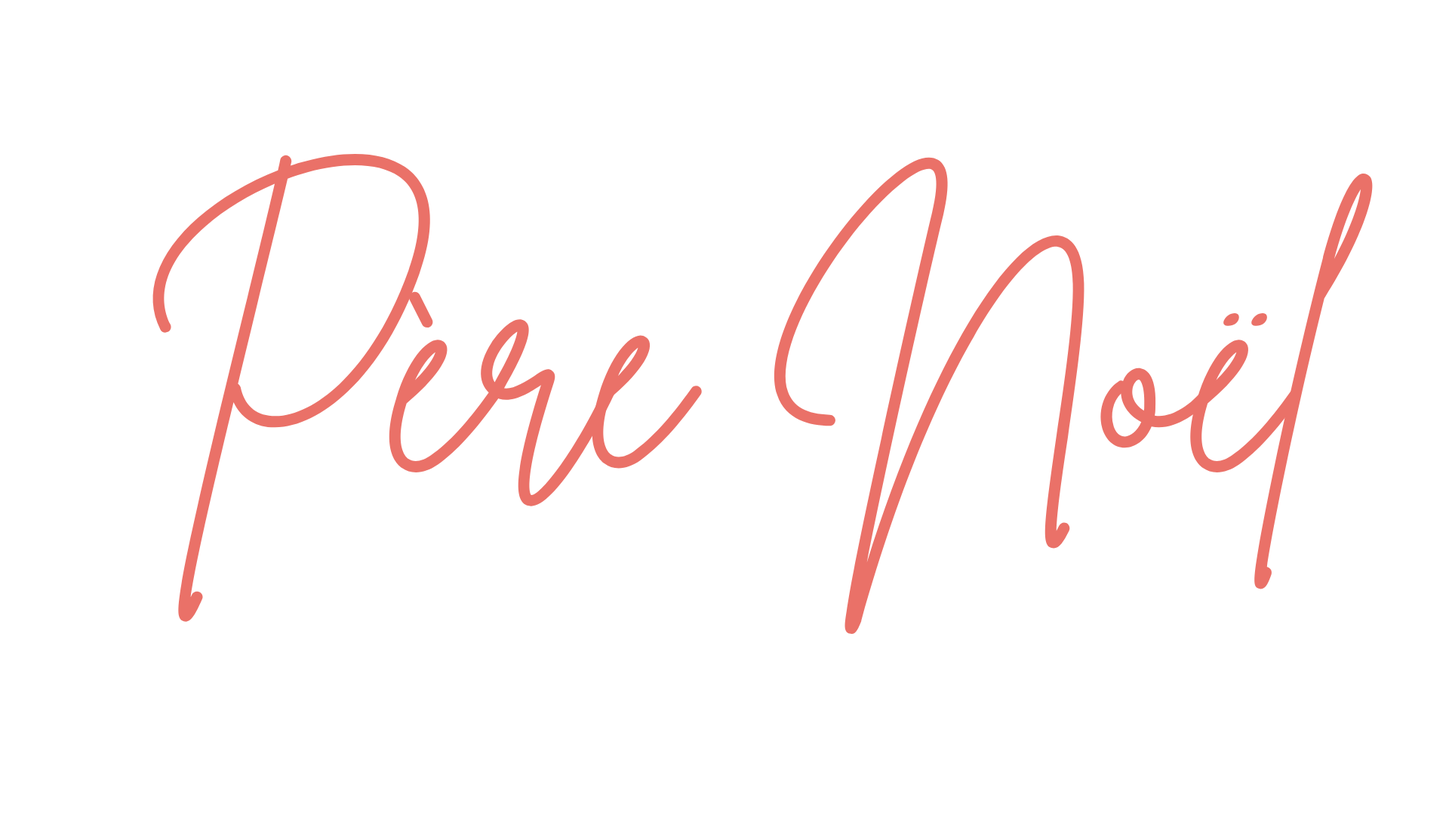
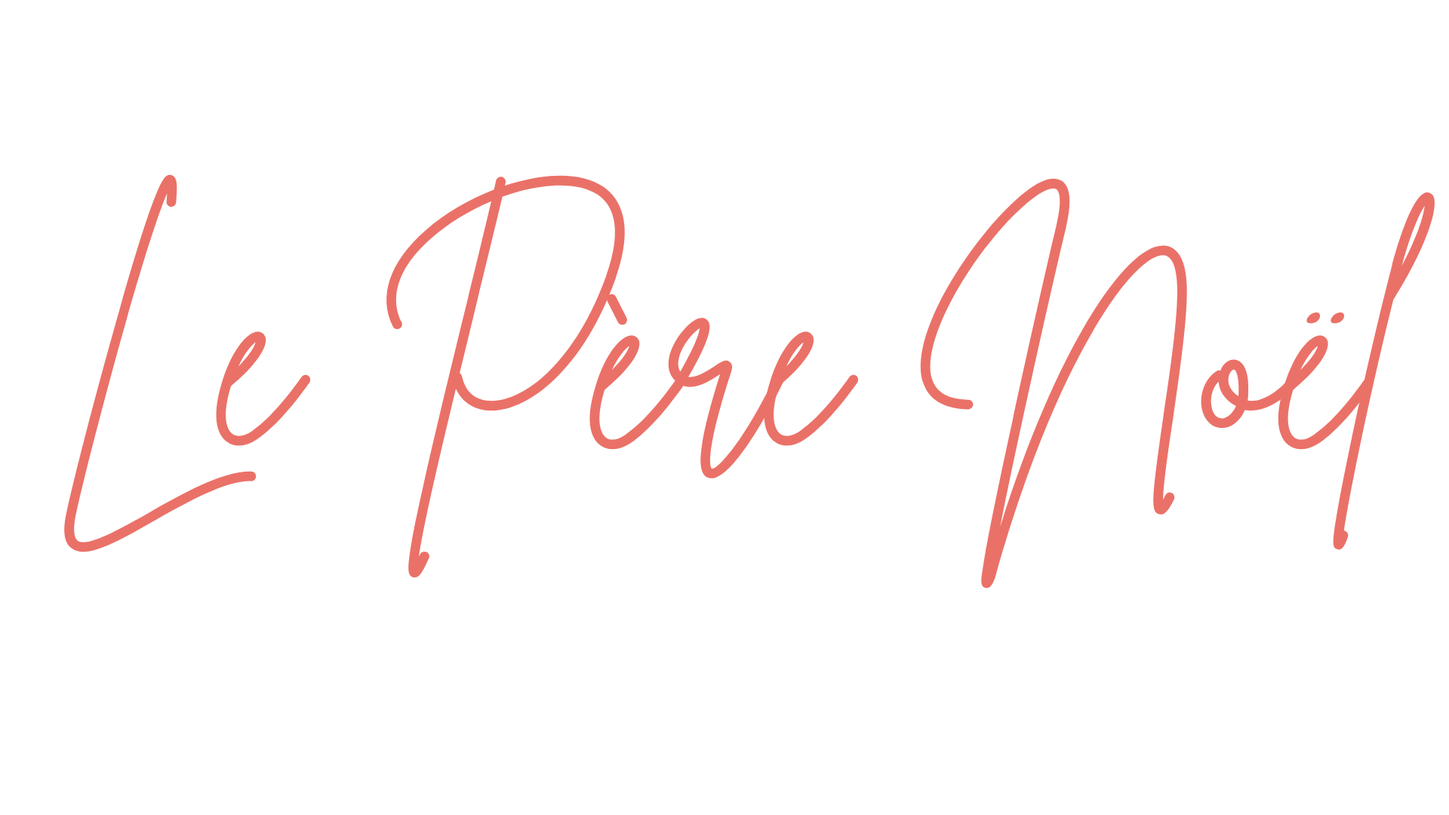
Bump to v0.6

Changed region(s): [[0.0312, 0.1833, 1.0, 0.7944], [0.8438, 0.6417, 0.875, 0.7333]]

diff --git a/dist/output.css b/dist/output.css
@@ -1,1 +1,1 @@
-/*! tailwindcss v3.1.8 | MIT License | https://tailwindcss.com*/*,:after,:before{box-sizing:border-box;border:0 solid #e5e7eb}:after,:before{--tw-content:""}html{line-height:1.5;-webkit-text-size-adjust:100%;-moz-tab-size:4;-o-tab-size:4;tab-size:4;font-family:ui-sans-serif,system-ui,-apple-system,BlinkMacSystemFont,Segoe UI,Roboto,Helvetica Neue,Arial,Noto Sans,sans-serif,Apple Color Emoji,Segoe UI Emoji,Segoe UI Symbol,Noto Color Emoji}body{margin:0;line-height:inherit}hr{height:0;color:inherit;border-top-width:1px}abbr:where([title]){-webkit-text-decoration:underline dotted;text-decoration:underline dotted}h1,h2,h3,h4,h5,h6{font-size:inherit;font-weight:inherit}a{color:inherit;text-decoration:inherit}b,strong{font-weight:bolder}code,kbd,pre,samp{font-family:ui-monospace,SFMono-Regular,Menlo,Monaco,Consolas,Liberation Mono,Courier New,monospace;font-size:1em}small{font-size:80%}sub,sup{font-size:75%;line-height:0;position:relative;vertical-align:initial}sub{bottom:-.25em}sup{top:-.5em}table{text-indent:0;border-color:inherit;border-collapse:collapse}button,input,optgroup,select,textarea{font-family:inherit;font-size:100%;font-weight:inherit;line-height:inherit;color:inherit;margin:0;padding:0}button,select{text-transform:none}[type=button],[type=reset],[type=submit],button{-webkit-appearance:button;background-color:initial;background-image:none}:-moz-focusring{outline:auto}:-moz-ui-invalid{box-shadow:none}progress{vertical-align:initial}::-webkit-inner-spin-button,::-webkit-outer-spin-button{height:auto}[type=search]{-webkit-appearance:textfield;outline-offset:-2px}::-webkit-search-decoration{-webkit-appearance:none}::-webkit-file-upload-button{-webkit-appearance:button;font:inherit}summary{display:list-item}blockquote,dd,dl,figure,h1,h2,h3,h4,h5,h6,hr,p,pre{margin:0}fieldset{margin:0}fieldset,legend{padding:0}menu,ol,ul{list-style:none;margin:0;padding:0}textarea{resize:vertical}input::-moz-placeholder,textarea::-moz-placeholder{opacity:1;color:#9ca3af}input::placeholder,textarea::placeholder{opacity:1;color:#9ca3af}[role=button],button{cursor:pointer}:disabled{cursor:default}audio,canvas,embed,iframe,img,object,svg,video{display:block;vertical-align:middle}img,video{max-width:100%;height:auto}*,:after,:before{--tw-border-spacing-x:0;--tw-border-spacing-y:0;--tw-translate-x:0;--tw-translate-y:0;--tw-rotate:0;--tw-skew-x:0;--tw-skew-y:0;--tw-scale-x:1;--tw-scale-y:1;--tw-pan-x: ;--tw-pan-y: ;--tw-pinch-zoom: ;--tw-scroll-snap-strictness:proximity;--tw-ordinal: ;--tw-slashed-zero: ;--tw-numeric-figure: ;--tw-numeric-spacing: ;--tw-numeric-fraction: ;--tw-ring-inset: ;--tw-ring-offset-width:0px;--tw-ring-offset-color:#fff;--tw-ring-color:rgba(59,130,246,.5);--tw-ring-offset-shadow:0 0 #0000;--tw-ring-shadow:0 0 #0000;--tw-shadow:0 0 #0000;--tw-shadow-colored:0 0 #0000;--tw-blur: ;--tw-brightness: ;--tw-contrast: ;--tw-grayscale: ;--tw-hue-rotate: ;--tw-invert: ;--tw-saturate: ;--tw-sepia: ;--tw-drop-shadow: ;--tw-backdrop-blur: ;--tw-backdrop-brightness: ;--tw-backdrop-contrast: ;--tw-backdrop-grayscale: ;--tw-backdrop-hue-rotate: ;--tw-backdrop-invert: ;--tw-backdrop-opacity: ;--tw-backdrop-saturate: ;--tw-backdrop-sepia: }::-webkit-backdrop{--tw-border-spacing-x:0;--tw-border-spacing-y:0;--tw-translate-x:0;--tw-translate-y:0;--tw-rotate:0;--tw-skew-x:0;--tw-skew-y:0;--tw-scale-x:1;--tw-scale-y:1;--tw-pan-x: ;--tw-pan-y: ;--tw-pinch-zoom: ;--tw-scroll-snap-strictness:proximity;--tw-ordinal: ;--tw-slashed-zero: ;--tw-numeric-figure: ;--tw-numeric-spacing: ;--tw-numeric-fraction: ;--tw-ring-inset: ;--tw-ring-offset-width:0px;--tw-ring-offset-color:#fff;--tw-ring-color:rgba(59,130,246,.5);--tw-ring-offset-shadow:0 0 #0000;--tw-ring-shadow:0 0 #0000;--tw-shadow:0 0 #0000;--tw-shadow-colored:0 0 #0000;--tw-blur: ;--tw-brightness: ;--tw-contrast: ;--tw-grayscale: ;--tw-hue-rotate: ;--tw-invert: ;--tw-saturate: ;--tw-sepia: ;--tw-drop-shadow: ;--tw-backdrop-blur: ;--tw-backdrop-brightness: ;--tw-backdrop-contrast: ;--tw-backdrop-grayscale: ;--tw-backdrop-hue-rotate: ;--tw-backdrop-invert: ;--tw-backdrop-opacity: ;--tw-backdrop-saturate: ;--tw-backdrop-sepia: }::backdrop{--tw-border-spacing-x:0;--tw-border-spacing-y:0;--tw-translate-x:0;--tw-translate-y:0;--tw-rotate:0;--tw-skew-x:0;--tw-skew-y:0;--tw-scale-x:1;--tw-scale-y:1;--tw-pan-x: ;--tw-pan-y: ;--tw-pinch-zoom: ;--tw-scroll-snap-strictness:proximity;--tw-ordinal: ;--tw-slashed-zero: ;--tw-numeric-figure: ;--tw-numeric-spacing: ;--tw-numeric-fraction: ;--tw-ring-inset: ;--tw-ring-offset-width:0px;--tw-ring-offset-color:#fff;--tw-ring-color:rgba(59,130,246,.5);--tw-ring-offset-shadow:0 0 #0000;--tw-ring-shadow:0 0 #0000;--tw-shadow:0 0 #0000;--tw-shadow-colored:0 0 #0000;--tw-blur: ;--tw-brightness: ;--tw-contrast: ;--tw-grayscale: ;--tw-hue-rotate: ;--tw-invert: ;--tw-saturate: ;--tw-sepia: ;--tw-drop-shadow: ;--tw-backdrop-blur: ;--tw-backdrop-brightness: ;--tw-backdrop-contrast: ;--tw-backdrop-grayscale: ;--tw-backdrop-hue-rotate: ;--tw-backdrop-invert: ;--tw-backdrop-opacity: ;--tw-backdrop-saturate: ;--tw-backdrop-sepia: }.container{width:100%}@media (min-width:640px){.container{max-width:640px}}@media (min-width:768px){.container{max-width:768px}}@media (min-width:1024px){.container{max-width:1024px}}@media (min-width:1280px){.container{max-width:1280px}}@media (min-width:1536px){.container{max-width:1536px}}.fixed{position:fixed}.top-0{top:0}.left-0{left:0}.z-10{z-index:10}.mx-auto{margin-left:auto;margin-right:auto}.my-10{margin-top:2.5rem;margin-bottom:2.5rem}.my-2{margin-top:.5rem;margin-bottom:.5rem}.my-6{margin-top:1.5rem;margin-bottom:1.5rem}.my-4{margin-top:1rem}.mb-4,.my-4{margin-bottom:1rem}.mb-10{margin-bottom:2.5rem}.mb-8{margin-bottom:2rem}.mb-2{margin-bottom:.5rem}.mt-10{margin-top:2.5rem}.mt-0{margin-top:0}.mr-2{margin-right:.5rem}.mb-14{margin-bottom:3.5rem}.ml-12{margin-left:3rem}.mr-8{margin-right:2rem}.mb-6{margin-bottom:1.5rem}.block{display:block}.inline-block{display:inline-block}.flex{display:flex}.grid{display:grid}.hidden{display:none}.h-12{height:3rem}.h-full{height:100%}.h-screen{height:100vh}.h-40{height:10rem}.max-h-\[8rem\]{max-height:8rem}.w-full{width:100%}.w-screen{width:100vw}.w-2\/3{width:66.666667%}.w-1\/3{width:33.333333%}.w-20{width:5rem}.max-w-\[840px\]{max-width:840px}.max-w-\[8rem\]{max-width:8rem}.flex-grow{flex-grow:1}.-translate-x-full{--tw-translate-x:-100%}.-rotate-2,.-translate-x-full{transform:translate(var(--tw-translate-x),var(--tw-translate-y)) rotate(var(--tw-rotate)) skewX(var(--tw-skew-x)) skewY(var(--tw-skew-y)) scaleX(var(--tw-scale-x)) scaleY(var(--tw-scale-y))}.-rotate-2{--tw-rotate:-2deg}.rotate-1{--tw-rotate:1deg}.rotate-1,.rotate-2{transform:translate(var(--tw-translate-x),var(--tw-translate-y)) rotate(var(--tw-rotate)) skewX(var(--tw-skew-x)) skewY(var(--tw-skew-y)) scaleX(var(--tw-scale-x)) scaleY(var(--tw-scale-y))}.rotate-2{--tw-rotate:2deg}.transform{transform:translate(var(--tw-translate-x),var(--tw-translate-y)) rotate(var(--tw-rotate)) skewX(var(--tw-skew-x)) skewY(var(--tw-skew-y)) scaleX(var(--tw-scale-x)) scaleY(var(--tw-scale-y))}.list-inside{list-style-position:inside}.list-disc{list-style-type:disc}.grid-cols-2{grid-template-columns:repeat(2,minmax(0,1fr))}.items-center{align-items:center}.justify-start{justify-content:flex-start}.justify-end{justify-content:flex-end}.justify-center{justify-content:center}.gap-2{gap:.5rem}.gap-8{gap:2rem}.rounded{border-radius:.25rem}.bg-white{--tw-bg-opacity:1;background-color:rgb(255 255 255/var(--tw-bg-opacity))}.bg-\[\#111942\]{--tw-bg-opacity:1;background-color:rgb(17 25 66/var(--tw-bg-opacity))}.bg-white\/60{background-color:hsla(0,0%,100%,.6)}.bg-\[\#E95F32\]{--tw-bg-opacity:1;background-color:rgb(233 95 50/var(--tw-bg-opacity))}.bg-\[\#9ad2d0\]{--tw-bg-opacity:1;background-color:rgb(154 210 208/var(--tw-bg-opacity))}.bg-yellow-300{--tw-bg-opacity:1;background-color:rgb(253 224 71/var(--tw-bg-opacity))}.bg-white\/5{background-color:hsla(0,0%,100%,.05)}.bg-white\/30{background-color:hsla(0,0%,100%,.3)}.bg-white\/20{background-color:hsla(0,0%,100%,.2)}.object-contain{-o-object-fit:contain;object-fit:contain}.p-2{padding:.5rem}.p-5{padding:1.25rem}.p-4{padding:1rem}.py-2{padding-top:.5rem;padding-bottom:.5rem}.px-4{padding-left:1rem;padding-right:1rem}.py-12{padding-top:3rem;padding-bottom:3rem}.px-1{padding-left:.25rem;padding-right:.25rem}.px-3{padding-left:.75rem;padding-right:.75rem}.px-5{padding-left:1.25rem;padding-right:1.25rem}.px-8{padding-left:2rem;padding-right:2rem}.py-4{padding-top:1rem;padding-bottom:1rem}.pt-12{padding-top:3rem}.pb-12{padding-bottom:3rem}.pl-4{padding-left:1rem}.text-center{text-align:center}.text-2xl{font-size:1.5rem;line-height:2rem}.text-sm{font-size:.875rem;line-height:1.25rem}.text-3xl{font-size:1.875rem;line-height:2.25rem}.text-xs{font-size:.75rem;line-height:1rem}.text-base{font-size:1rem;line-height:1.5rem}.font-bold{font-weight:700}.text-white\/90{color:hsla(0,0%,100%,.9)}.text-white{--tw-text-opacity:1;color:rgb(255 255 255/var(--tw-text-opacity))}.text-black{--tw-text-opacity:1;color:rgb(0 0 0/var(--tw-text-opacity))}.text-white\/80{color:hsla(0,0%,100%,.8)}.underline{-webkit-text-decoration-line:underline;text-decoration-line:underline}.no-underline{-webkit-text-decoration-line:none;text-decoration-line:none}.opacity-50{opacity:.5}.opacity-80{opacity:.8}.shadow{--tw-shadow:0 1px 3px 0 rgba(0,0,0,.1),0 1px 2px -1px rgba(0,0,0,.1);--tw-shadow-colored:0 1px 3px 0 var(--tw-shadow-color),0 1px 2px -1px var(--tw-shadow-color);box-shadow:var(--tw-ring-offset-shadow,0 0 #0000),var(--tw-ring-shadow,0 0 #0000),var(--tw-shadow)}.transition{transition-property:color,background-color,border-color,fill,stroke,opacity,box-shadow,transform,filter,-webkit-text-decoration-color,-webkit-backdrop-filter;transition-property:color,background-color,border-color,text-decoration-color,fill,stroke,opacity,box-shadow,transform,filter,backdrop-filter;transition-property:color,background-color,border-color,text-decoration-color,fill,stroke,opacity,box-shadow,transform,filter,backdrop-filter,-webkit-text-decoration-color,-webkit-backdrop-filter;transition-timing-function:cubic-bezier(.4,0,.2,1);transition-duration:.15s}.duration-200{transition-duration:.2s}html{font-family:Raleway,sans-serif;font-size:18px;scroll-behavior:smooth}body{--tw-text-opacity:1;color:rgb(17 25 66/var(--tw-text-opacity));background:url(../images/pattern.png);background-repeat:repeat}h2{font-size:1.25rem;line-height:1.75rem;font-weight:700}p{margin-bottom:.5rem}.highlight,.highlight-container{position:relative}.highlight-container{display:inline-block}.highlight-container:before{position:absolute;top:-1px;left:-1px;margin-left:-.25rem;margin-right:-.25rem;display:block;width:100%;--tw-rotate:2deg;transform:translate(var(--tw-translate-x),var(--tw-translate-y)) rotate(var(--tw-rotate)) skewX(var(--tw-skew-x)) skewY(var(--tw-skew-y)) scaleX(var(--tw-scale-x)) scaleY(var(--tw-scale-y));--tw-bg-opacity:1;background-color:rgb(255 255 255/var(--tw-bg-opacity));content:" ";height:90%;border-radius:20% 25% 20% 24%;padding:10px 3px 3px 10px}.hover\:bg-\[\#e54b18\]:hover{--tw-bg-opacity:1;background-color:rgb(229 75 24/var(--tw-bg-opacity))}.hover\:shadow-xl:hover{--tw-shadow:0 20px 25px -5px rgba(0,0,0,.1),0 8px 10px -6px rgba(0,0,0,.1);--tw-shadow-colored:0 20px 25px -5px var(--tw-shadow-color),0 8px 10px -6px var(--tw-shadow-color);box-shadow:var(--tw-ring-offset-shadow,0 0 #0000),var(--tw-ring-shadow,0 0 #0000),var(--tw-shadow)}.peer:checked~.peer-checked\:translate-x-0{--tw-translate-x:0px;transform:translate(var(--tw-translate-x),var(--tw-translate-y)) rotate(var(--tw-rotate)) skewX(var(--tw-skew-x)) skewY(var(--tw-skew-y)) scaleX(var(--tw-scale-x)) scaleY(var(--tw-scale-y))}@media (min-width:1024px){.lg\:container{width:100%}@media (min-width:640px){.lg\:container{max-width:640px}}@media (min-width:768px){.lg\:container{max-width:768px}}@media (min-width:1024px){.lg\:container{max-width:1024px}}@media (min-width:1280px){.lg\:container{max-width:1280px}}@media (min-width:1536px){.lg\:container{max-width:1536px}}.lg\:static{position:static}.lg\:my-4{margin-top:1rem;margin-bottom:1rem}.lg\:mb-20{margin-bottom:5rem}.lg\:mt-20{margin-top:5rem}.lg\:block{display:block}.lg\:flex{display:flex}.lg\:grid{display:grid}.lg\:hidden{display:none}.lg\:h-full{height:100%}.lg\:w-full{width:100%}.lg\:w-1\/2{width:50%}.lg\:w-2\/3{width:66.666667%}.lg\:max-w-\[840px\]{max-width:840px}.lg\:transform-none{transform:none}.lg\:grid-cols-4{grid-template-columns:repeat(4,minmax(0,1fr))}.lg\:grid-cols-2{grid-template-columns:repeat(2,minmax(0,1fr))}.lg\:items-center{align-items:center}.lg\:justify-end{justify-content:flex-end}.lg\:gap-4{gap:1rem}.lg\:bg-white{--tw-bg-opacity:1;background-color:rgb(255 255 255/var(--tw-bg-opacity))}.lg\:p-0{padding:0}.lg\:p-20{padding:5rem}.lg\:px-20{padding-left:5rem;padding-right:5rem}.lg\:pt-12{padding-top:3rem}.lg\:text-\[\#E15C35\]{--tw-text-opacity:1;color:rgb(225 92 53/var(--tw-text-opacity))}.lg\:hover\:bg-slate-100:hover{--tw-bg-opacity:1;background-color:rgb(241 245 249/var(--tw-bg-opacity))}}
+/*! tailwindcss v3.1.8 | MIT License | https://tailwindcss.com*/*,:after,:before{box-sizing:border-box;border:0 solid #e5e7eb}:after,:before{--tw-content:""}html{line-height:1.5;-webkit-text-size-adjust:100%;-moz-tab-size:4;-o-tab-size:4;tab-size:4;font-family:ui-sans-serif,system-ui,-apple-system,BlinkMacSystemFont,Segoe UI,Roboto,Helvetica Neue,Arial,Noto Sans,sans-serif,Apple Color Emoji,Segoe UI Emoji,Segoe UI Symbol,Noto Color Emoji}body{margin:0;line-height:inherit}hr{height:0;color:inherit;border-top-width:1px}abbr:where([title]){-webkit-text-decoration:underline dotted;text-decoration:underline dotted}h1,h2,h3,h4,h5,h6{font-size:inherit;font-weight:inherit}a{color:inherit;text-decoration:inherit}b,strong{font-weight:bolder}code,kbd,pre,samp{font-family:ui-monospace,SFMono-Regular,Menlo,Monaco,Consolas,Liberation Mono,Courier New,monospace;font-size:1em}small{font-size:80%}sub,sup{font-size:75%;line-height:0;position:relative;vertical-align:initial}sub{bottom:-.25em}sup{top:-.5em}table{text-indent:0;border-color:inherit;border-collapse:collapse}button,input,optgroup,select,textarea{font-family:inherit;font-size:100%;font-weight:inherit;line-height:inherit;color:inherit;margin:0;padding:0}button,select{text-transform:none}[type=button],[type=reset],[type=submit],button{-webkit-appearance:button;background-color:initial;background-image:none}:-moz-focusring{outline:auto}:-moz-ui-invalid{box-shadow:none}progress{vertical-align:initial}::-webkit-inner-spin-button,::-webkit-outer-spin-button{height:auto}[type=search]{-webkit-appearance:textfield;outline-offset:-2px}::-webkit-search-decoration{-webkit-appearance:none}::-webkit-file-upload-button{-webkit-appearance:button;font:inherit}summary{display:list-item}blockquote,dd,dl,figure,h1,h2,h3,h4,h5,h6,hr,p,pre{margin:0}fieldset{margin:0}fieldset,legend{padding:0}menu,ol,ul{list-style:none;margin:0;padding:0}textarea{resize:vertical}input::-moz-placeholder,textarea::-moz-placeholder{opacity:1;color:#9ca3af}input::placeholder,textarea::placeholder{opacity:1;color:#9ca3af}[role=button],button{cursor:pointer}:disabled{cursor:default}audio,canvas,embed,iframe,img,object,svg,video{display:block;vertical-align:middle}img,video{max-width:100%;height:auto}*,:after,:before{--tw-border-spacing-x:0;--tw-border-spacing-y:0;--tw-translate-x:0;--tw-translate-y:0;--tw-rotate:0;--tw-skew-x:0;--tw-skew-y:0;--tw-scale-x:1;--tw-scale-y:1;--tw-pan-x: ;--tw-pan-y: ;--tw-pinch-zoom: ;--tw-scroll-snap-strictness:proximity;--tw-ordinal: ;--tw-slashed-zero: ;--tw-numeric-figure: ;--tw-numeric-spacing: ;--tw-numeric-fraction: ;--tw-ring-inset: ;--tw-ring-offset-width:0px;--tw-ring-offset-color:#fff;--tw-ring-color:rgba(59,130,246,.5);--tw-ring-offset-shadow:0 0 #0000;--tw-ring-shadow:0 0 #0000;--tw-shadow:0 0 #0000;--tw-shadow-colored:0 0 #0000;--tw-blur: ;--tw-brightness: ;--tw-contrast: ;--tw-grayscale: ;--tw-hue-rotate: ;--tw-invert: ;--tw-saturate: ;--tw-sepia: ;--tw-drop-shadow: ;--tw-backdrop-blur: ;--tw-backdrop-brightness: ;--tw-backdrop-contrast: ;--tw-backdrop-grayscale: ;--tw-backdrop-hue-rotate: ;--tw-backdrop-invert: ;--tw-backdrop-opacity: ;--tw-backdrop-saturate: ;--tw-backdrop-sepia: }::-webkit-backdrop{--tw-border-spacing-x:0;--tw-border-spacing-y:0;--tw-translate-x:0;--tw-translate-y:0;--tw-rotate:0;--tw-skew-x:0;--tw-skew-y:0;--tw-scale-x:1;--tw-scale-y:1;--tw-pan-x: ;--tw-pan-y: ;--tw-pinch-zoom: ;--tw-scroll-snap-strictness:proximity;--tw-ordinal: ;--tw-slashed-zero: ;--tw-numeric-figure: ;--tw-numeric-spacing: ;--tw-numeric-fraction: ;--tw-ring-inset: ;--tw-ring-offset-width:0px;--tw-ring-offset-color:#fff;--tw-ring-color:rgba(59,130,246,.5);--tw-ring-offset-shadow:0 0 #0000;--tw-ring-shadow:0 0 #0000;--tw-shadow:0 0 #0000;--tw-shadow-colored:0 0 #0000;--tw-blur: ;--tw-brightness: ;--tw-contrast: ;--tw-grayscale: ;--tw-hue-rotate: ;--tw-invert: ;--tw-saturate: ;--tw-sepia: ;--tw-drop-shadow: ;--tw-backdrop-blur: ;--tw-backdrop-brightness: ;--tw-backdrop-contrast: ;--tw-backdrop-grayscale: ;--tw-backdrop-hue-rotate: ;--tw-backdrop-invert: ;--tw-backdrop-opacity: ;--tw-backdrop-saturate: ;--tw-backdrop-sepia: }::backdrop{--tw-border-spacing-x:0;--tw-border-spacing-y:0;--tw-translate-x:0;--tw-translate-y:0;--tw-rotate:0;--tw-skew-x:0;--tw-skew-y:0;--tw-scale-x:1;--tw-scale-y:1;--tw-pan-x: ;--tw-pan-y: ;--tw-pinch-zoom: ;--tw-scroll-snap-strictness:proximity;--tw-ordinal: ;--tw-slashed-zero: ;--tw-numeric-figure: ;--tw-numeric-spacing: ;--tw-numeric-fraction: ;--tw-ring-inset: ;--tw-ring-offset-width:0px;--tw-ring-offset-color:#fff;--tw-ring-color:rgba(59,130,246,.5);--tw-ring-offset-shadow:0 0 #0000;--tw-ring-shadow:0 0 #0000;--tw-shadow:0 0 #0000;--tw-shadow-colored:0 0 #0000;--tw-blur: ;--tw-brightness: ;--tw-contrast: ;--tw-grayscale: ;--tw-hue-rotate: ;--tw-invert: ;--tw-saturate: ;--tw-sepia: ;--tw-drop-shadow: ;--tw-backdrop-blur: ;--tw-backdrop-brightness: ;--tw-backdrop-contrast: ;--tw-backdrop-grayscale: ;--tw-backdrop-hue-rotate: ;--tw-backdrop-invert: ;--tw-backdrop-opacity: ;--tw-backdrop-saturate: ;--tw-backdrop-sepia: }.container{width:100%}@media (min-width:640px){.container{max-width:640px}}@media (min-width:768px){.container{max-width:768px}}@media (min-width:1024px){.container{max-width:1024px}}@media (min-width:1280px){.container{max-width:1280px}}@media (min-width:1536px){.container{max-width:1536px}}.fixed{position:fixed}.top-0{top:0}.left-0{left:0}.z-10{z-index:10}.mx-auto{margin-left:auto;margin-right:auto}.my-10{margin-top:2.5rem;margin-bottom:2.5rem}.my-0{margin-top:0;margin-bottom:0}.my-6{margin-top:1.5rem;margin-bottom:1.5rem}.my-4{margin-top:1rem;margin-bottom:1rem}.my-2{margin-top:.5rem;margin-bottom:.5rem}.mb-4{margin-bottom:1rem}.mb-10{margin-bottom:2.5rem}.mb-8{margin-bottom:2rem}.mb-2{margin-bottom:.5rem}.mb-0{margin-bottom:0}.mt-10{margin-top:2.5rem}.mt-0{margin-top:0}.mr-2{margin-right:.5rem}.mb-14{margin-bottom:3.5rem}.ml-12{margin-left:3rem}.mr-8{margin-right:2rem}.mb-6{margin-bottom:1.5rem}.block{display:block}.inline-block{display:inline-block}.flex{display:flex}.grid{display:grid}.hidden{display:none}.h-12{height:3rem}.h-full{height:100%}.h-screen{height:100vh}.h-40{height:10rem}.max-h-\[8rem\]{max-height:8rem}.w-full{width:100%}.w-screen{width:100vw}.w-2\/3{width:66.666667%}.w-1\/3{width:33.333333%}.w-20{width:5rem}.max-w-\[840px\]{max-width:840px}.max-w-\[8rem\]{max-width:8rem}.flex-grow{flex-grow:1}.-translate-x-full{--tw-translate-x:-100%}.-rotate-2,.-translate-x-full{transform:translate(var(--tw-translate-x),var(--tw-translate-y)) rotate(var(--tw-rotate)) skewX(var(--tw-skew-x)) skewY(var(--tw-skew-y)) scaleX(var(--tw-scale-x)) scaleY(var(--tw-scale-y))}.-rotate-2{--tw-rotate:-2deg}.rotate-1{--tw-rotate:1deg}.rotate-1,.rotate-2{transform:translate(var(--tw-translate-x),var(--tw-translate-y)) rotate(var(--tw-rotate)) skewX(var(--tw-skew-x)) skewY(var(--tw-skew-y)) scaleX(var(--tw-scale-x)) scaleY(var(--tw-scale-y))}.rotate-2{--tw-rotate:2deg}.transform{transform:translate(var(--tw-translate-x),var(--tw-translate-y)) rotate(var(--tw-rotate)) skewX(var(--tw-skew-x)) skewY(var(--tw-skew-y)) scaleX(var(--tw-scale-x)) scaleY(var(--tw-scale-y))}.list-inside{list-style-position:inside}.list-disc{list-style-type:disc}.grid-cols-2{grid-template-columns:repeat(2,minmax(0,1fr))}.items-center{align-items:center}.justify-start{justify-content:flex-start}.justify-end{justify-content:flex-end}.justify-center{justify-content:center}.gap-2{gap:.5rem}.gap-8{gap:2rem}.rounded{border-radius:.25rem}.bg-white{--tw-bg-opacity:1;background-color:rgb(255 255 255/var(--tw-bg-opacity))}.bg-\[\#111942\]{--tw-bg-opacity:1;background-color:rgb(17 25 66/var(--tw-bg-opacity))}.bg-white\/60{background-color:hsla(0,0%,100%,.6)}.bg-\[\#E95F32\]{--tw-bg-opacity:1;background-color:rgb(233 95 50/var(--tw-bg-opacity))}.bg-\[\#9ad2d0\]{--tw-bg-opacity:1;background-color:rgb(154 210 208/var(--tw-bg-opacity))}.bg-yellow-300{--tw-bg-opacity:1;background-color:rgb(253 224 71/var(--tw-bg-opacity))}.bg-white\/5{background-color:hsla(0,0%,100%,.05)}.bg-white\/30{background-color:hsla(0,0%,100%,.3)}.bg-white\/20{background-color:hsla(0,0%,100%,.2)}.object-contain{-o-object-fit:contain;object-fit:contain}.p-2{padding:.5rem}.p-5{padding:1.25rem}.p-4{padding:1rem}.py-2{padding-top:.5rem;padding-bottom:.5rem}.px-4{padding-left:1rem;padding-right:1rem}.py-12{padding-top:3rem;padding-bottom:3rem}.px-1{padding-left:.25rem;padding-right:.25rem}.px-3{padding-left:.75rem;padding-right:.75rem}.px-5{padding-left:1.25rem;padding-right:1.25rem}.px-8{padding-left:2rem;padding-right:2rem}.py-4{padding-top:1rem;padding-bottom:1rem}.pt-12{padding-top:3rem}.pb-12{padding-bottom:3rem}.pl-4{padding-left:1rem}.text-center{text-align:center}.text-2xl{font-size:1.5rem;line-height:2rem}.text-sm{font-size:.875rem;line-height:1.25rem}.text-3xl{font-size:1.875rem;line-height:2.25rem}.text-xs{font-size:.75rem;line-height:1rem}.text-base{font-size:1rem;line-height:1.5rem}.font-bold{font-weight:700}.text-white\/90{color:hsla(0,0%,100%,.9)}.text-white{--tw-text-opacity:1;color:rgb(255 255 255/var(--tw-text-opacity))}.text-black{--tw-text-opacity:1;color:rgb(0 0 0/var(--tw-text-opacity))}.text-white\/80{color:hsla(0,0%,100%,.8)}.underline{-webkit-text-decoration-line:underline;text-decoration-line:underline}.no-underline{-webkit-text-decoration-line:none;text-decoration-line:none}.opacity-50{opacity:.5}.opacity-80{opacity:.8}.shadow{--tw-shadow:0 1px 3px 0 rgba(0,0,0,.1),0 1px 2px -1px rgba(0,0,0,.1);--tw-shadow-colored:0 1px 3px 0 var(--tw-shadow-color),0 1px 2px -1px var(--tw-shadow-color);box-shadow:var(--tw-ring-offset-shadow,0 0 #0000),var(--tw-ring-shadow,0 0 #0000),var(--tw-shadow)}.transition{transition-property:color,background-color,border-color,fill,stroke,opacity,box-shadow,transform,filter,-webkit-text-decoration-color,-webkit-backdrop-filter;transition-property:color,background-color,border-color,text-decoration-color,fill,stroke,opacity,box-shadow,transform,filter,backdrop-filter;transition-property:color,background-color,border-color,text-decoration-color,fill,stroke,opacity,box-shadow,transform,filter,backdrop-filter,-webkit-text-decoration-color,-webkit-backdrop-filter;transition-timing-function:cubic-bezier(.4,0,.2,1);transition-duration:.15s}.duration-200{transition-duration:.2s}html{font-family:Raleway,sans-serif;font-size:18px;scroll-behavior:smooth}body{--tw-text-opacity:1;color:rgb(17 25 66/var(--tw-text-opacity));background:url(../images/pattern.png);background-repeat:repeat}h2{font-size:1.25rem;line-height:1.75rem;font-weight:700}p{margin-bottom:.5rem}.highlight,.highlight-container{position:relative}.highlight-container{display:inline-block}.highlight-container:before{position:absolute;top:-1px;left:-1px;margin-left:-.25rem;margin-right:-.25rem;display:block;width:100%;--tw-rotate:2deg;transform:translate(var(--tw-translate-x),var(--tw-translate-y)) rotate(var(--tw-rotate)) skewX(var(--tw-skew-x)) skewY(var(--tw-skew-y)) scaleX(var(--tw-scale-x)) scaleY(var(--tw-scale-y));--tw-bg-opacity:1;background-color:rgb(255 255 255/var(--tw-bg-opacity));content:" ";height:90%;border-radius:20% 25% 20% 24%;padding:10px 3px 3px 10px}.hover\:bg-\[\#e54b18\]:hover{--tw-bg-opacity:1;background-color:rgb(229 75 24/var(--tw-bg-opacity))}.hover\:shadow-xl:hover{--tw-shadow:0 20px 25px -5px rgba(0,0,0,.1),0 8px 10px -6px rgba(0,0,0,.1);--tw-shadow-colored:0 20px 25px -5px var(--tw-shadow-color),0 8px 10px -6px var(--tw-shadow-color);box-shadow:var(--tw-ring-offset-shadow,0 0 #0000),var(--tw-ring-shadow,0 0 #0000),var(--tw-shadow)}.peer:checked~.peer-checked\:translate-x-0{--tw-translate-x:0px;transform:translate(var(--tw-translate-x),var(--tw-translate-y)) rotate(var(--tw-rotate)) skewX(var(--tw-skew-x)) skewY(var(--tw-skew-y)) scaleX(var(--tw-scale-x)) scaleY(var(--tw-scale-y))}@media (min-width:1024px){.lg\:container{width:100%}@media (min-width:640px){.lg\:container{max-width:640px}}@media (min-width:768px){.lg\:container{max-width:768px}}@media (min-width:1024px){.lg\:container{max-width:1024px}}@media (min-width:1280px){.lg\:container{max-width:1280px}}@media (min-width:1536px){.lg\:container{max-width:1536px}}.lg\:static{position:static}.lg\:my-4{margin-top:1rem;margin-bottom:1rem}.lg\:mb-20{margin-bottom:5rem}.lg\:mt-20{margin-top:5rem}.lg\:block{display:block}.lg\:flex{display:flex}.lg\:grid{display:grid}.lg\:hidden{display:none}.lg\:h-full{height:100%}.lg\:w-full{width:100%}.lg\:w-1\/3{width:33.333333%}.lg\:w-2\/3{width:66.666667%}.lg\:max-w-\[840px\]{max-width:840px}.lg\:transform-none{transform:none}.lg\:grid-cols-4{grid-template-columns:repeat(4,minmax(0,1fr))}.lg\:grid-cols-2{grid-template-columns:repeat(2,minmax(0,1fr))}.lg\:items-center{align-items:center}.lg\:justify-end{justify-content:flex-end}.lg\:gap-4{gap:1rem}.lg\:bg-white{--tw-bg-opacity:1;background-color:rgb(255 255 255/var(--tw-bg-opacity))}.lg\:p-0{padding:0}.lg\:p-20{padding:5rem}.lg\:px-20{padding-left:5rem;padding-right:5rem}.lg\:pt-12{padding-top:3rem}.lg\:text-\[\#E15C35\]{--tw-text-opacity:1;color:rgb(225 92 53/var(--tw-text-opacity))}.lg\:hover\:bg-slate-100:hover{--tw-bg-opacity:1;background-color:rgb(241 245 249/var(--tw-bg-opacity))}}

diff --git a/index.html b/index.html
@@ -77,11 +77,11 @@
         Tous pour un Noël qui a du sens.
       </h2>
 
-      <p class="my-2">Du sens qui doit primer sur l’abondance.</p>
-      <p class="my-2">De la qualité plutôt que de la quantité.</p>
-      <p class="my-2">Du moins mais mieux.</p>
-      <p class="my-2">Des moments passés ensemble.</p>
-      <p class="my-2">Pour refaire de Noël une vraie occasion de partage,</p>
+      <p class="my-0">Du sens qui doit primer sur l’abondance.</p>
+      <p class="my-0">De la qualité plutôt que de la quantité.</p>
+      <p class="my-0">Du moins mais mieux.</p>
+      <p class="my-0">Des moments passés ensemble.</p>
+      <p class="my-0">Pour refaire de Noël une vraie occasion de partage,</p>
       <p class="mb-10">Pas de grand déballage !</p>
 
 
@@ -96,7 +96,7 @@
         Les familles et les marques à mes côtés !
       </h2>
 
-      <p>Vous trouverez sans doute ma décision difficile à expliquer à vos enfants, qui ont déjà découpé les 50 pages des 15 magazines de jouets reçus directement dans votre boite aux lettres. <span class="font-bold">Pourtant, mon appel est aujourd’hui nécessaire.</span> Nous pouvons repenser notre façon de consommer, pour avoir un impact sur la façon de fabriquer.</p>
+      <p>Vous trouverez sans doute ma décision difficile à expliquer à vos enfants, qui ont déjà découpé les 50 pages des 15 magazines de jouets reçus directement dans votre boite aux lettres. <span class="font-bold">Pourtant, mon appel est aujourd’hui nécessaire.</span><br>Nous pouvons repenser notre façon de consommer, pour avoir un impact sur la façon de fabriquer.</p>
 
       <p class="font-bold my-6">Et vous et vos enfants avez plus de pouvoir que vous ne le pensez.</p>
 
@@ -108,16 +108,18 @@
 
       <p class="mb-4">Car malgrés les apparences, les resources de notre planète ne sont pas infinies, et nous consommons chaque année davantage de resources que la terre ne peut en produire.</p>
 
-      <p>Je suis convaincu que nous pouvons proposer un avenir sain à nos enfants sur cette planète, en prenant chacun* conscience de notre façon de consommer.</p>
+      <p class="mb-0">Je suis convaincu que nous pouvons proposer un avenir sain à nos enfants sur cette planète, en prenant chacun conscience de notre façon de consommer.</p>
 
-      <p class="font-bold my-4">*C’est à dire tous.</p>
+      <p class="font-bold mb-4">C’est à dire tous.</p>
 
-      <p class="my-4">Et comme le disaient <i class="font-italic">Les Trois Mousquetaires</i> - en cri de ralliement solidaire : <i class="font-italic">Un pour tous, tous pour un !</i><span class="font-bold">N’oubliez pas, ça commence ce Noël.</span></p>
+      <p class="my-4">Et comme le disaient <i class="font-italic">Les Trois Mousquetaires</i> - en cri de ralliement solidaire :</p>
+      <p class="text-center"><i class="font-italic">Un pour tous, tous pour un !</i></p>
+      <p class="mb-8 text-center font-bold">N’oubliez pas, ça commence ce Noël.</p>
 
-      <p>Avec tout l’optimisme du monde, le Père Noël ❤</p>
+      <p>Avec tout l’optimisme du monde,</p>
 
-      <div class="flex justify-center">
-        <img src="/images/signature.png" alt="Signature du Père Noël" class="w-2/3 lg:w-1/2">
+      <div class="flex justify-end">
+        <img src="/images/signature.png" alt="Signature du Père Noël" class="w-2/3 lg:w-1/3">
       </div>
 
       <p id="signez-la-petition" class="mt-10 text-xs opacity-50">(Lettre largement inspirée par Yvon Chouinard, fondateur de Patagonia.)</p>
